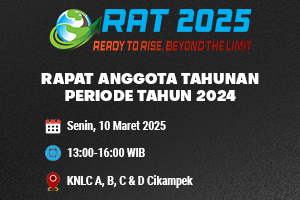
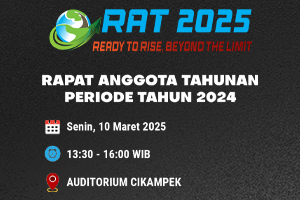
fix detail kalendar dan og_image

diff --git a/css/bootstrap.css b/css/bootstrap.css
@@ -2310,7 +2310,7 @@ output {
   padding: 10px 20px;
   font-size: 14px;
   line-height: 1.42857;
-  color: #00a2e1;
+  color: #00BCD4;
   background-color: #fff;
   background-image: none;
   border: 1px solid #ccc;
@@ -7431,7 +7431,7 @@ button.close {
 }
 
 .kepada {
-  color: #00a2e1;
+  color: #00BCD4;
   font-family: "Karla", Arial, sans-serif;
   font-weight: 400;
   font-style: italic;
@@ -7458,14 +7458,14 @@ button.close {
   font-family: 'fraunces_9pt_softitalic', serif;
   text-align: center;
   font-size: xx-large;
-  color: #00a2e1;
+  color: #eb1c27;
 }
 
 .nama-pengantin-foto {
   font-family: 'fraunces_9ptsemibold_italic', serif;
   text-align: center;
   font-size: xx-large;
-  color: #00a2e1;
+  color: #00BCD4;
 }
 
 .onepage {

diff --git a/index.php b/index.php
@@ -91,11 +91,11 @@
 	<meta property="og:image" content="https://www.undangan.kkmrat.web.id/images/rat/og_image.png" />
 	<meta property="og:url" content="https://www.kkmrat.web.id/" />
 	<meta property="og:site_name" content="Undangan Digital KKM RAT" />
-	<meta property="og:description" content="Senin, 10 Mar 2025 - 13:00 | Diamond Room" />
+	<meta property="og:description" content="Senin, 10 Mar 2025 - 13:30 | Auditorium" />
 	<meta name="twitter:title" content="Undangan KKM RAT" />
 	<meta name="twitter:image" content="https://www.undangan.kkmrat.web.id/images/rat/og_image.png" />
 	<meta name="twitter:url" content="https://www.kkmrat.web.id/" />
-	<meta name="twitter:card" content="Senin, 10 Mar 2025 - 13:00 | Diamond Room" />
+	<meta name="twitter:card" content="Senin, 10 Mar 2025 - 13:30 | Auditorium" />
 	<meta name="apple-mobile-web-app-capable" content="yes" />
 	<meta name="mobile-web-app-capable" content="yes" />
 
@@ -586,7 +586,7 @@
 						<div class="big-date js animate__animated">10.MAR.25</div>
 						<div id="demo"></div>
 						<div class="simply-countdown simply-countdown-one js animate__animated"></div>
-						<p><a href="https://calendar.google.com/calendar/u/0/r/eventedit?dates=20240228T060000Z/20240228T090000Z&crm=AVAILABLE&sprop=website:www.kkmrat.web.id/undangan&sprop=name:KKMRAT&ctz=Asia/Jakarta&text=Rapat+Anggota+Tahunan+Periode+2024&location=PT.%20Sanghiang%20Perkasa%20-%20Kalbe%20Nutritionals,%20Kawasan%20Industri%20Indotaisei,%20Kalihurip,%20Kec.%20Cikampek,%20Karawang,%20Jawa%20Barat%2041373,%20Indonesia&details=Tanpa%20mengurangi%20rasa%20hormat%2C%20harap%20datang%2010%20menit%20sebelum%20acara%20dimulai%2C%20gunakan%20Dress%20code%20sesuai%20dengan%20yang%20sudah%20di%20tentukan%2C%20bawa%20undangan%20ini%20dan%20tunjukan%20QR%20Code%20kepada%20panitia%20untuk%20akses%20masuk." class="btn btn-default btn-sm js animate__animated" target="blank" rel="nofollow">Tambah ke Google Kalender</a></p>
+						<p><a href="https://calendar.google.com/calendar/u/0/r/eventedit?dates=20250310T063000Z/20250310T090000Z&crm=AVAILABLE&sprop=website:www.kkmrat.web.id/undangan&sprop=name:KKMRAT&ctz=Asia/Jakarta&text=Rapat+Anggota+Tahunan+Periode+2024&location=PT.%20Sanghiang%20Perkasa%20-%20Kalbe%20Nutritionals,%20Kawasan%20Industri%20Indotaisei,%20Kalihurip,%20Kec.%20Cikampek,%20Karawang,%20Jawa%20Barat%2041373,%20Indonesia&details=Tanpa%20mengurangi%20rasa%20hormat%2C%20harap%20datang%2010%20menit%20sebelum%20acara%20dimulai%2C%20gunakan%20Dress%20code%20sesuai%20dengan%20yang%20sudah%20di%20tentukan%2C%20bawa%20undangan%20ini%20dan%20tunjukan%20QR%20Code%20kepada%20panitia%20untuk%20akses%20masuk" class="btn btn-default btn-sm js animate__animated" target="blank" rel="nofollow">Tambah ke Google Kalender</a></p>
 						<br />
 						<div class="col-md-8 col-md-offset-2 text-center">
 							<a class="demo js animate__animated" href="images/rat/events.png" data-lightbox="example-1">
@@ -607,7 +607,7 @@
 						<div class="nama-pengantin-foto js animate__animated">Lokasi</div>
 						<div id="map" class="fh5co-map event-wrap">
 							<div class="col-md-8 col-md-offset-2 text-center">
-								<p class="js animate__animated"><span style="font-weight:bold;">KNLC (DIAMOND ROOM) LT. 3</span><br />PT. Sanghiang Perkasa - Kalbe Nutritionals,<br />Kawasan Industri Indotaisei, Kalihurip, Kec. Cikampek,<br />Karawang, Jawa Barat 41373</p>
+								<p class="js animate__animated"><span style="font-weight:bold;">Auditorium LT. 1</span><br />PT. Sanghiang Perkasa - Kalbe Nutritionals,<br />Kawasan Industri Indotaisei, Kalihurip, Kec. Cikampek,<br />Karawang, Jawa Barat 41373</p>
 								<p><a href="https://maps.app.goo.gl/3wuVHxG1jPgWjUjt9" class="btn btn-default btn-sm btn-peta js animate__animated" target="blank">Lihat Peta</a></p>
 								<img src="images/denaya/separator.png" alt="denaya_separator" class="img-responsive flower denaya-separator js animate__animated">
 							</div>
@@ -879,7 +879,7 @@
 		$(function() {
 			$("time.timeago").timeago();
 		});
-		var d = new Date(new Date("Mar 10, 2025 13:00:00").getTime());
+		var d = new Date(new Date("Mar 10, 2025 13:30:00").getTime());
 		//var countDownDate = new Date("Mar 27, 2022 08:00:00").getTime();
 
 

diff --git a/php/header.php b/php/header.php
@@ -83,11 +83,11 @@
 	<meta property="og:image" content="images/rat/og_image.png" />
 	<meta property="og:url" content="https://kkmrat.web.id/" />
 	<meta property="og:site_name" content="Undangan Digital KKM RAT" />
-	<meta property="og:description" content="Rabu, 28 Feb 2024 - 13:00 | Diamond Room" />
+	<meta property="og:description" content="Senin, 10 Mar 2025 - 13:30 | Auditorium" />
 	<meta name="twitter:title" content="Undangan KKM RAT" />
 	<meta name="twitter:image" content="images/rat/og_image.png" />
 	<meta name="twitter:url" content="https://kkmrat.web.id/" />
-	<meta name="twitter:card" content="Rabu, 28 Feb 2024 - 13:00 | Diamond Room" />
+	<meta name="twitter:card" content="Senin, 10 Mar 2025 - 13:30 | Auditorium" />
 	<meta name="apple-mobile-web-app-capable" content="yes" />
 	<meta name="mobile-web-app-capable" content="yes" />
 
